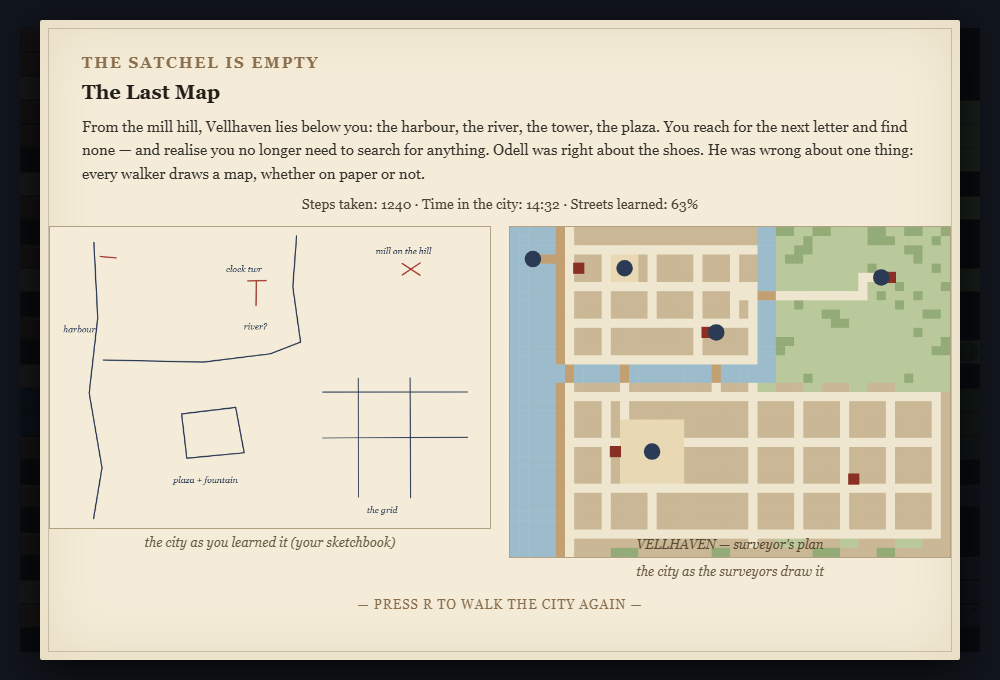
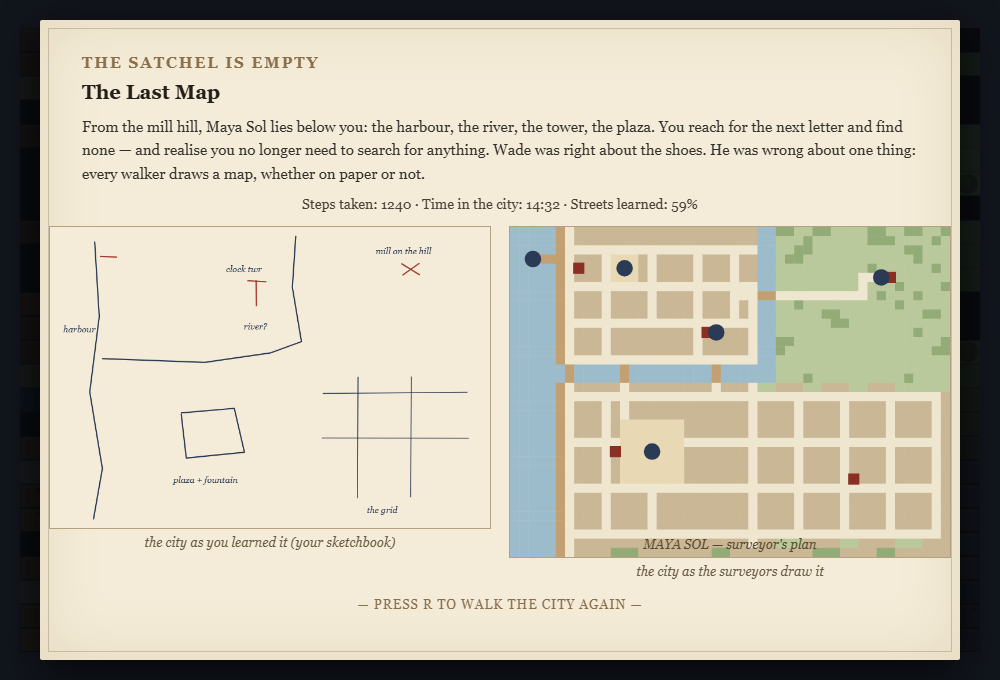
massive update to core gameplay loop

diff --git a/report/Post-Mortem_Blind-Cartographer.html b/report/Post-Mortem_Blind-Cartographer.html
@@ -56,11 +56,11 @@
 
 <p><em>Blind Cartographer</em> is a small single player exploration game that runs in the browser. The idea behind it came from a simple inversion of something I kept noticing in games that are set in cities, which is that almost all of them hand the player a map first and then fill it with markers and icons. In my prototype I tried to do the opposite, the player gets a whole city but never gets a map of it.</p>
 
-<p>The player takes the role of a courier who arrives by ferry in Vellhaven, a harbor town whose old mapmaker, Odell Marrow, has just passed away. In his will he leaves five letters and only one condition, that they have to be delivered by someone who has never seen a map of his city. Because of that there is no minimap, no compass and no quest arrow in the game. Each envelope is addressed the way people actually give directions to each other in real life, for example <em>“keep the water at your left hand until the lighthouse rises over the piers.”</em> The player walks around, reads the skyline and, if they want to, draws their own map in a sketchbook inside the game. Only after the last letter is delivered the game shows a map for the first time, which is the surveyor's plan of Vellhaven placed next to the player's own drawing.</p>
+<p>The player takes the role of a courier who arrives by ferry in Maya Sol, a harbor town whose old mapmaker, Wade Wilson, has just passed away. In his will he leaves five letters and only one condition, that they have to be delivered by someone who has never seen a map of his city. Because of that there is no minimap, no compass and no quest arrow in the game. Each envelope is addressed the way people actually give directions to each other in real life, for example <em>“keep the water at your left hand until the lighthouse rises over the piers.”</em> The player walks around, reads the skyline and, if they want to, draws their own map in a sketchbook inside the game. Only after the last letter is delivered the game shows a map for the first time, which is the surveyor's plan of Maya Sol placed next to the player's own drawing.</p>
 
 <figure>
   <img src="figures/shot-title.png" alt="Title screen where only the ferry landing is visible in the fog">
-  <figcaption>Figure 1: The arrival. Only the ferry landing is known and the rest of Vellhaven is covered in fog.</figcaption>
+  <figcaption>Figure 1: The arrival. Only the ferry landing is known and the rest of Maya Sol is covered in fog.</figcaption>
 </figure>
 
 <figure>
@@ -77,13 +77,13 @@
 <p>The main design rule I set for myself was that every navigational aid in the game has to be a part of the city and not a part of the interface. Kevin Lynch's five elements of urban legibility (Lynch 1960) became my actual level design checklist (Figure 3). These are paths (a winding web of streets in the Old Town compared to the ruled grid of the New Quarter), edges (the harbor front and the river, which divide the city and force the player to make decisions at the bridges), districts (five wards, each with its own colors, roofs and street patterns), nodes (the fountain plaza where the market streets come together) and landmarks (the lighthouse, cathedral, clock tower and windmill, which are tall enough to be seen above the fog from far away, similar to the towers in <em>The Legend of Zelda: Breath of the Wild</em> (Nintendo 2017)).</p>
 
 <figure>
-  <img src="figures/fig-lynch.svg" alt="Hand drawn plan of Vellhaven annotated with Lynch's five elements">
-  <figcaption>Figure 3: Design scribble of Vellhaven, planned as an exercise in Lynch's five elements.</figcaption>
+  <img src="figures/fig-lynch.svg" alt="Hand drawn plan of Maya Sol annotated with Lynch's five elements">
+  <figcaption>Figure 3: Design scribble of Maya Sol, planned as an exercise in Lynch's five elements.</figcaption>
 </figure>
 
 <h3>Story: What do I want to tell?</h3>
 
-<p>The story tries to make the same argument as the mechanics. Odell Marrow spent his whole life drawing maps and at some point stopped believing in them, and his last wish is that his farewell letters are carried by someone who has to learn the city instead of just reading it. Every delivered letter opens a short vignette that connects one recipient to one element of urban form. The harbormaster is connected to the edge that anchored Odell's first survey, the baker to the plaza as a node (“the centre is wherever the bread is still warm”), the clockmaker to the landmark (“mercy for lost men”) and the widow Alvey to the grid of the New Quarter, which is easy to read but has no character and which Odell drew himself and later regrets. And last but not least, the miller is connected to the farewell itself: <em>“the truest map of a city is worn into the soles of one's shoes.”</em> The journey of the player is what makes this claim true, since by the fifth letter they are moving confidently through a city that was nothing but fog an hour before. De Certeau's (1984) distinction between the view from above and the walker down in the streets is basically the arc of the whole game, because the player is the walker the entire time and only receives the view from above at the very end.</p>
+<p>The story tries to make the same argument as the mechanics. Wade Wilson spent his whole life drawing maps and at some point stopped believing in them, and his last wish is that his farewell letters are carried by someone who has to learn the city instead of just reading it. Every delivered letter opens a short vignette that connects one recipient to one element of urban form. The harbormaster is connected to the edge that anchored Wade's first survey, the baker to the plaza as a node (“the centre is wherever the bread is still warm”), the clockmaker to the landmark (“mercy for lost men”) and the widow Alvey to the grid of the New Quarter, which is easy to read but has no character and which Wade drew himself and later regrets. And last but not least, the miller is connected to the farewell itself: <em>“the truest map of a city is worn into the soles of one's shoes.”</em> The journey of the player is what makes this claim true, since by the fifth letter they are moving confidently through a city that was nothing but fog an hour before. De Certeau's (1984) distinction between the view from above and the walker down in the streets is basically the arc of the whole game, because the player is the walker the entire time and only receives the view from above at the very end.</p>
 
 <figure>
   <img src="figures/shot-plaza.png" alt="The fountain plaza with the clock tower silhouette on the horizon">
@@ -144,8 +144,8 @@
   <p><em>The Legend of Zelda: Breath of the Wild</em> (Nintendo 2017), towers and landmark navigation</p>
 </div>
 
-<h2>6. Team Members: Contributions</h2>
-<p>This is a solo project. Jaber Rashki Ghaleh No (12452808): concept and research, city and level design, writing (letters and story), programming, playtesting and tuning, and this report.</p>
+<h2>6. Contributions</h2>
+<p>This was a solo project, so I did all of the work myself, from the concept and research to the level design, writing, programming, playtesting and this report.</p>
 
 </body>
 </html>

diff --git a/blind-cartographer.html b/blind-cartographer.html
@@ -119,7 +119,7 @@
     <div class="paper">
       <h3>A game about maps &amp; orientation</h3>
       <h1>Blind Cartographer</h1>
-      <p><em>Vellhaven.</em> The old mapmaker Odell Marrow is dead. He leaves five letters — and one
+      <p><em>Maya Sol.</em> The old mapmaker Wade Wilson is dead. He leaves five letters — and one
       condition in his will: they must be carried by someone who has <em>never seen a map of his city</em>.</p>
       <p>That someone is you. You step off the ferry with his satchel. No map. No markers.
       Only the city itself: its water, its streets, its towers. Learn it the way he did —
@@ -147,7 +147,7 @@
     <div class="paper">
       <h3>the letter reads…</h3>
       <p id="vignetteBody" style="font-style:italic"></p>
-      <p class="sig">— Odell Marrow</p>
+      <p class="sig">— Wade Wilson</p>
       <p class="go" id="vignetteGo">— press E to continue —</p>
     </div>
   </div>
@@ -193,9 +193,9 @@
     <div class="paper" id="endPanel">
       <h3>the satchel is empty</h3>
       <h2>The Last Map</h2>
-      <p>From the mill hill, Vellhaven lies below you: the harbour, the river, the tower, the plaza.
+      <p>From the mill hill, Maya Sol lies below you: the harbour, the river, the tower, the plaza.
       You reach for the next letter and find none — and realise you no longer need to search for anything.
-      Odell was right about the shoes. He was wrong about one thing: every walker draws a map, whether on paper or not.</p>
+      Wade was right about the shoes. He was wrong about one thing: every walker draws a map, whether on paper or not.</p>
       <div id="stats"></div>
       <div id="endMaps">
         <div class="endMap">
@@ -276,7 +276,7 @@ const walkable = (x,y) => WALKABLE.has(at(x,y));
 /* districts: Lynch's districts, each with its own tint & name toast */
 const DISTRICTS = [
   {name:"the Harbourfront",   x0:0,  y0:0,  x1:6,  y1:35, tint:"rgba(80,130,160,0.10)", roof:["#6b5a44","#75624a","#5f5140"]},
-  {name:"Old Vellhaven",      x0:7,  y0:0,  x1:26, y1:14, tint:"rgba(205,150,80,0.12)", roof:["#9a5a3c","#8f5340","#a4643f"]},
+  {name:"Old Maya Sol",      x0:7,  y0:0,  x1:26, y1:14, tint:"rgba(205,150,80,0.12)", roof:["#9a5a3c","#8f5340","#a4643f"]},
   {name:"the Millfields",     x0:29, y0:0,  x1:47, y1:16, tint:"rgba(110,180,90,0.08)", roof:["#7a6a4d","#7a6a4d","#7a6a4d"]},
   {name:"the Market Ward",    x0:7,  y0:17, x1:24, y1:35, tint:"rgba(225,185,95,0.10)", roof:["#b08948","#a37c42","#96703d"]},
   {name:"the New Quarter",    x0:25, y0:17, x1:47, y1:35, tint:"rgba(120,140,190,0.12)", roof:["#5c6b85","#66748e","#525f78"]},
@@ -304,7 +304,7 @@ for(let y=0;y<MAPH;y++)for(let x=0;x<MAPW;x++){
 const LETTERS = [
   { door:'1', to:"Brann, the harbourmaster", houseName:"The Harbourmaster's House", doorColor:"#3e7d4f",
     directions:"Walk north along the waterfront and cross the little footbridge where the river spills into the harbour. Keep the water at your left hand until the lighthouse rises over the piers. Brann keeps the last house before the pier — the one with the green door.",
-    vignette:"Brann — you once told me a harbour is a city's front door, and so I drew your piers at the edge of every map I ever made. What I never told you: on my first morning in Vellhaven, forty years ago, it was your lighthouse that told me where I was. Everything I measured, I measured from its light." },
+    vignette:"Brann — you once told me a harbour is a city's front door, and so I drew your piers at the edge of every map I ever made. What I never told you: on my first morning in Maya Sol, forty years ago, it was your lighthouse that told me where I was. Everything I measured, I measured from its light." },
   { door:'2', to:"Odile, the baker", houseName:"Odile's Bakery", doorColor:"#3b5f9e",
     directions:"Go back south over the footbridge, then follow the waterfront until a market street turns inland. It runs straight to the plaza — you will hear the fountain before you see it. Odile bakes at the western edge of the square, her blue door facing the water-jets.",
     vignette:"Odile — strangers believe a city's centre is printed on its maps. You and I know better: the centre is wherever the bread is still warm. Your plaza was never a square of flagstones to me. It was the smell of your ovens — and that, no map of mine could hold." },
@@ -316,7 +316,7 @@ const LETTERS = [
     vignette:"Alvey — forgive the Quarter its sameness. I drew those ruled streets myself when they drained the east marsh, and I believed order would help people find one another. Instead it taught them to count corners. Tell your neighbours the old mapmaker knew, and was sorry." },
   { door:'5', to:"Josa, the miller", houseName:"Josa's Mill House", doorColor:"#e8e4da",
     directions:"Last of all: cross back over the river where it runs narrow in the north — the old stone bridge east of the clock tower — and climb through the Millfields until you see the sails turning against the sky. Josa's pale door stands beside the windmill.",
-    vignette:"Josa — by the time this reaches your hill, the courier carrying it will have crossed every ward of Vellhaven without a single map, just as I did the year I arrived. Burn the charts in my study; they were only souvenirs. The truest map of a city is worn into the soles of one's shoes. There is one more copy in the world now." },
+    vignette:"Josa — by the time this reaches your hill, the courier carrying it will have crossed every ward of Maya Sol without a single map, just as I did the year I arrived. Burn the charts in my study; they were only souvenirs. The truest map of a city is worn into the soles of one's shoes. There is one more copy in the world now." },
 ];
 
 /* ---------------- state ---------------- */
@@ -373,7 +373,7 @@ function openLetter(){
   const L=LETTERS[state.letter];
   $("letterKicker").textContent = "letter "+ROMAN[state.letter]+" of V";
   $("letterTitle").textContent = "For "+L.to;
-  $("letterBody").textContent = "The envelope, in Odell's hand: “"+L.directions+"”";
+  $("letterBody").textContent = "The envelope, in Wade's hand: “"+L.directions+"”";
   showOverlay("letter");
 }
 function deliverCurrent(){
@@ -441,7 +441,7 @@ function groundColor(x,y){
     case '~': return "#2e5d7c";
     case 'd': return "#8a6f4d";
     case '=': return "#7a5c3d";
-    case '.': return (districtAt(x,y)&&districtAt(x,y).name==="Old Vellhaven")?"#b5a184":"#aca394";
+    case '.': return (districtAt(x,y)&&districtAt(x,y).name==="Old Maya Sol")?"#b5a184":"#aca394";
     case 'p': return ((x+y)%2===0)?"#cfc3a8":"#c7bb9f";
     case 'g': case 't': return (rnd(x,y)<.5)?"#6a8f5a":"#648a55";
     default:  return "#9c9484"; // under buildings
@@ -658,7 +658,7 @@ function drawTrueMap(canvas){
     g.beginPath(); g.arc(lm.x*s+s/2, lm.y*s+s/2, s*0.9, 0, 7); g.fill();
   }
   g.fillStyle="#5a4a33"; g.font="italic 13px Georgia";
-  g.fillText("VELLHAVEN — surveyor's plan", canvas.width/2, canvas.height-8);
+  g.fillText("MAYA SOL — surveyor's plan", canvas.width/2, canvas.height-8);
 }
 
 /* =====================================================================

diff --git a/index.html b/index.html
@@ -36,9 +36,9 @@
 <h1>Blind Cartographer</h1>
 <div class="meta">A browser game about maps and orientation by Jaber Rashki Ghaleh No</div>
 
-<img src="report/figures/shot-title.png" alt="The arrival in Vellhaven, where everything except the ferry landing is hidden in fog">
+<img src="report/figures/shot-title.png" alt="The arrival in Maya Sol, where everything except the ferry landing is hidden in fog">
 
-<p>You play a courier who arrives in the harbor town of Vellhaven to deliver the five farewell letters of its old mapmaker. His only condition is that they are delivered by someone who has never seen a map of his city, so there is no minimap, no compass and no quest arrow. You find your way by the skyline, the water and the character of each district, and if you want you can draw your own map in a sketchbook. After the last letter the game finally shows you the real map of the city, right next to your own drawing.</p>
+<p>You play a courier who arrives in the harbor town of Maya Sol to deliver the five farewell letters of its old mapmaker. His only condition is that they are delivered by someone who has never seen a map of his city, so there is no minimap, no compass and no quest arrow. You find your way by the skyline, the water and the character of each district, and if you want you can draw your own map in a sketchbook. After the last letter the game finally shows you the real map of the city, right next to your own drawing.</p>
 
 <div class="links">
   <a class="primary" href="blind-cartographer.html">Play the game</a>

diff --git a/report/Post-Mortem_Blind-Cartographer.md b/report/Post-Mortem_Blind-Cartographer.md
@@ -10,10 +10,10 @@ Prototype: browser game (`blind-cartographer.html`)
 
 *Blind Cartographer* is a small single player exploration game that runs in the browser. The idea behind it came from a simple inversion of something I kept noticing in games that are set in cities, which is that almost all of them hand the player a map first and then fill it with markers and icons. In my prototype I tried to do the opposite, the player gets a whole city but never gets a map of it.
 
-The player takes the role of a courier who arrives by ferry in Vellhaven, a harbor town whose old mapmaker, Odell Marrow, has just passed away. In his will he leaves five letters and only one condition, that they have to be delivered by someone who has never seen a map of his city. Because of that there is no minimap, no compass and no quest arrow in the game. Each envelope is addressed the way people actually give directions to each other in real life, for example *"keep the water at your left hand until the lighthouse rises over the piers."* The player walks around, reads the skyline and, if they want to, draws their own map in a sketchbook inside the game. Only after the last letter is delivered the game shows a map for the first time, which is the surveyor's plan of Vellhaven placed next to the player's own drawing.
+The player takes the role of a courier who arrives by ferry in Maya Sol, a harbor town whose old mapmaker, Wade Wilson, has just passed away. In his will he leaves five letters and only one condition, that they have to be delivered by someone who has never seen a map of his city. Because of that there is no minimap, no compass and no quest arrow in the game. Each envelope is addressed the way people actually give directions to each other in real life, for example *"keep the water at your left hand until the lighthouse rises over the piers."* The player walks around, reads the skyline and, if they want to, draws their own map in a sketchbook inside the game. Only after the last letter is delivered the game shows a map for the first time, which is the surveyor's plan of Maya Sol placed next to the player's own drawing.
 
 ![The arrival: fog hides everything the courier has not walked](figures/shot-title.png)
-*Figure 1: The arrival. Only the ferry landing is known and the rest of Vellhaven is covered in fog.*
+*Figure 1: The arrival. Only the ferry landing is known and the rest of Maya Sol is covered in fog.*
 
 ![Navigating by the skyline](figures/shot-lighthouse.png)
 *Figure 2: Playing the first letter. The lighthouse is found, and the silhouette of the Cathedral floats above the fog as a distant cue.*
@@ -26,12 +26,12 @@ It is a short exploration and navigation game that takes around 15 to 25 minutes
 
 The main design rule I set for myself was that every navigational aid in the game has to be a part of the city and not a part of the interface. Kevin Lynch's five elements of urban legibility (Lynch 1960) became my actual level design checklist (Figure 3). These are paths (a winding web of streets in the Old Town compared to the ruled grid of the New Quarter), edges (the harbor front and the river, which divide the city and force the player to make decisions at the bridges), districts (five wards, each with its own colors, roofs and street patterns), nodes (the fountain plaza where the market streets come together) and landmarks (the lighthouse, cathedral, clock tower and windmill, which are tall enough to be seen above the fog from far away, similar to the towers in *The Legend of Zelda: Breath of the Wild* (Nintendo 2017)).
 
-![Design scribble of Vellhaven with Lynch's five elements](figures/fig-lynch.svg)
-*Figure 3: Design scribble of Vellhaven, planned as an exercise in Lynch's five elements.*
+![Design scribble of Maya Sol with Lynch's five elements](figures/fig-lynch.svg)
+*Figure 3: Design scribble of Maya Sol, planned as an exercise in Lynch's five elements.*
 
 ### Story: What do I want to tell?
 
-The story tries to make the same argument as the mechanics. Odell Marrow spent his whole life drawing maps and at some point stopped believing in them, and his last wish is that his farewell letters are carried by someone who has to learn the city instead of just reading it. Every delivered letter opens a short vignette that connects one recipient to one element of urban form. The harbormaster is connected to the edge that anchored Odell's first survey, the baker to the plaza as a node ("the centre is wherever the bread is still warm"), the clockmaker to the landmark ("mercy for lost men") and the widow Alvey to the grid of the New Quarter, which is easy to read but has no character and which Odell drew himself and later regrets. And last but not least, the miller is connected to the farewell itself: *"the truest map of a city is worn into the soles of one's shoes."* The journey of the player is what makes this claim true, since by the fifth letter they are moving confidently through a city that was nothing but fog an hour before. De Certeau's (1984) distinction between the view from above and the walker down in the streets is basically the arc of the whole game, because the player is the walker the entire time and only receives the view from above at the very end.
+The story tries to make the same argument as the mechanics. Wade Wilson spent his whole life drawing maps and at some point stopped believing in them, and his last wish is that his farewell letters are carried by someone who has to learn the city instead of just reading it. Every delivered letter opens a short vignette that connects one recipient to one element of urban form. The harbormaster is connected to the edge that anchored Wade's first survey, the baker to the plaza as a node ("the centre is wherever the bread is still warm"), the clockmaker to the landmark ("mercy for lost men") and the widow Alvey to the grid of the New Quarter, which is easy to read but has no character and which Wade drew himself and later regrets. And last but not least, the miller is connected to the farewell itself: *"the truest map of a city is worn into the soles of one's shoes."* The journey of the player is what makes this claim true, since by the fifth letter they are moving confidently through a city that was nothing but fog an hour before. De Certeau's (1984) distinction between the view from above and the walker down in the streets is basically the arc of the whole game, because the player is the walker the entire time and only receives the view from above at the very end.
 
 ![The plaza node](figures/shot-plaza.png)
 *Figure 4: The plaza as a node. The paths gather at the fountain while the clock tower stands on the horizon of the fog.*
@@ -90,6 +90,6 @@ Ludography
 
 *The Legend of Zelda: Breath of the Wild* (Nintendo 2017), towers and landmark navigation
 
-## 6. Team Members: Contributions
+## 6. Contributions
 
-This is a solo project. Jaber Rashki Ghaleh No (12452808): concept and research, city and level design, writing (letters and story), programming, playtesting and tuning, and this report.
+This was a solo project, so I did all of the work myself, from the concept and research to the level design, writing, programming, playtesting and this report.
